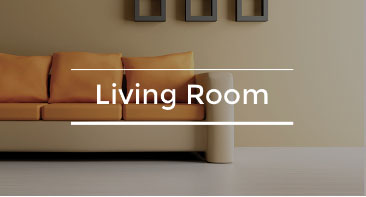
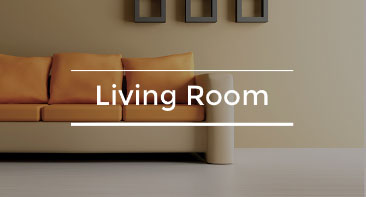
l12

diff --git a/css/style.css b/css/style.css
@@ -280,12 +280,16 @@ background-color:#24364a;
 .banner {
 	margin:0px 0px 20px 0px;
 }
-.subbanner .col-sm-4:first-child {
+.subbanner {
+	margin-right:-15px;
+	margin-left:-15px;
+}
+/*.subbanner .col-sm-4:first-child {
 	padding-left:0px;
 }
 .subbanner .col-sm-4:last-child {
 	padding-right:0px;
-}
+}*/
 .newsletter {
 	border:15px solid #ecf0f1;
 	margin:50px 0px;
@@ -508,13 +512,15 @@ border-radius:0px !important;
 	}
 	.subbanner .col-sm-4{
 		margin:0px 0px 12px 0px;
+		padding-left:30px;
+		padding-right:30px;
 	}
-	.subbanner .col-sm-4:first-child{
-		padding-left:15px;
+	/*.subbanner .col-sm-4:first-child{
+		padding-left:30px;
 	}
 	.subbanner .col-sm-4:last-child{
 		padding-right:15px;
-	}
+	}*/
 	.featured-product{
 		background:#fff !important;
 		border:none !important;
@@ -581,7 +587,7 @@ border-radius:0px !important;
 	    width: 100%;
 	    max-width: 991px;
 	    display: flex;
-	    
+
 	    justify-content: center;
 	    align-items: center;
 	}

diff --git a/index.html b/index.html
@@ -59,7 +59,7 @@
 						    <input type="text" class="form-control" placeholder="Search our entire store...">
 						    <span class="input-group-btn">
 						        <button class="btn btn-default" type="button"><span class="glyphicon glyphicon-search"></span></button>
-						     </span>
+						    </span>
 						</div>
 					</div>
 				</div>	

diff --git a/css/jcarousel.responsive.css b/css/jcarousel.responsive.css
@@ -33,6 +33,7 @@
 .jcarousel img {
     display: block;
     max-width: 100%;
+    width:100%;
     height: auto !important;
 }
 
